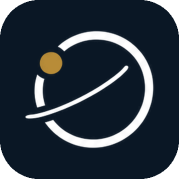
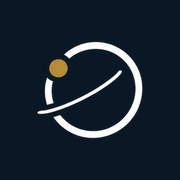
Іконки додатка: нова іконка для iPhone, набір для Android і опис додатка ORBITA IX

Changed region(s): [[0.1389, 0.1667, 0.8611, 0.8333], [0.0, 0.0, 1.0, 1.0], [0.0, 0.0, 0.1944, 0.1944]]

diff --git a/amazon.html b/amazon.html
@@ -6,7 +6,10 @@
 <title>ORBITA IX · Amazon</title>
 <link rel="icon" href="favicon.svg" type="image/svg+xml">
 <link rel="icon" href="favicon.ico" sizes="any">
-<link rel="apple-touch-icon" href="apple-touch-icon.png">
+<link rel="apple-touch-icon" href="/apple-touch-icon.png">
+<link rel="manifest" href="/site.webmanifest">
+<meta name="theme-color" content="#0A1725">
+<meta name="apple-mobile-web-app-title" content="ORBITA IX">
 <meta property="og:type" content="website">
 <meta property="og:site_name" content="ORBITA IX">
 <meta property="og:title" content="Проєкт Amazon під ключ: Мексика та Канада — ORBITA IX">

diff --git a/index.html b/index.html
@@ -6,7 +6,10 @@
 <title>ORBITA IX</title>
 <link rel="icon" href="favicon.svg" type="image/svg+xml">
 <link rel="icon" href="favicon.ico" sizes="any">
-<link rel="apple-touch-icon" href="apple-touch-icon.png">
+<link rel="apple-touch-icon" href="/apple-touch-icon.png">
+<link rel="manifest" href="/site.webmanifest">
+<meta name="theme-color" content="#0A1725">
+<meta name="apple-mobile-web-app-title" content="ORBITA IX">
 <meta property="og:type" content="website">
 <meta property="og:site_name" content="ORBITA IX">
 <meta property="og:title" content="ORBITA IX — Ваші процеси. Наші AI-агенти. Працює 24/7.">

diff --git a/amazon-en.html b/amazon-en.html
@@ -6,7 +6,10 @@
 <title>ORBITA IX · Amazon</title>
 <link rel="icon" href="favicon.svg" type="image/svg+xml">
 <link rel="icon" href="favicon.ico" sizes="any">
-<link rel="apple-touch-icon" href="apple-touch-icon.png">
+<link rel="apple-touch-icon" href="/apple-touch-icon.png">
+<link rel="manifest" href="/site.webmanifest">
+<meta name="theme-color" content="#0A1725">
+<meta name="apple-mobile-web-app-title" content="ORBITA IX">
 <meta property="og:type" content="website">
 <meta property="og:site_name" content="ORBITA IX">
 <meta property="og:title" content="A turnkey Amazon project: Mexico and Canada — ORBITA IX">
